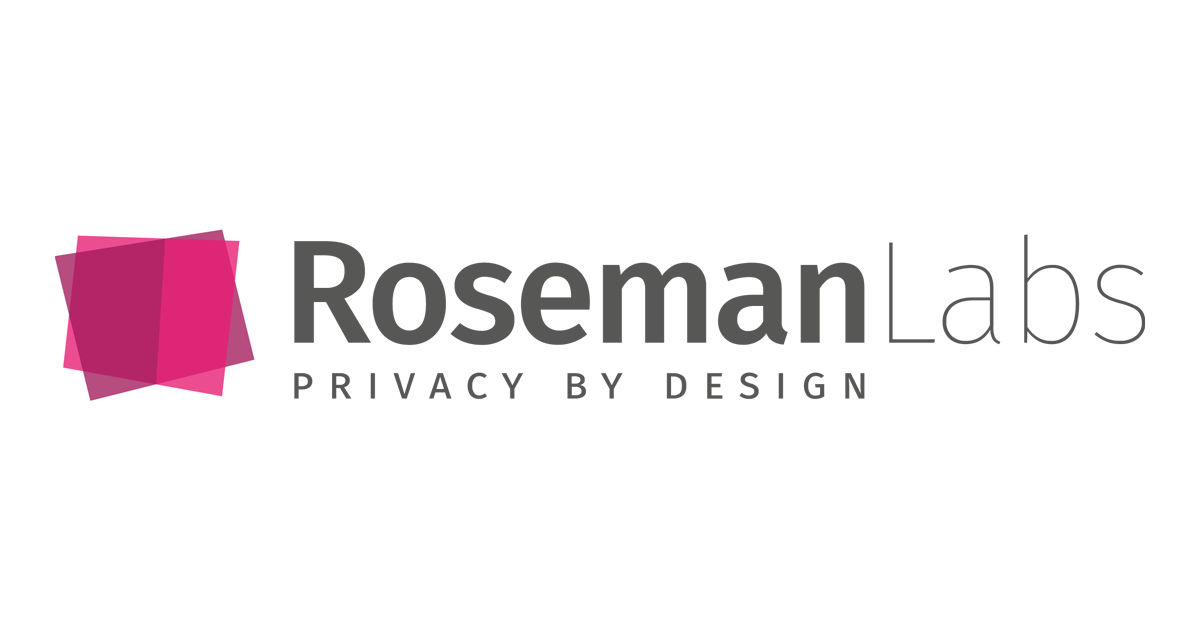
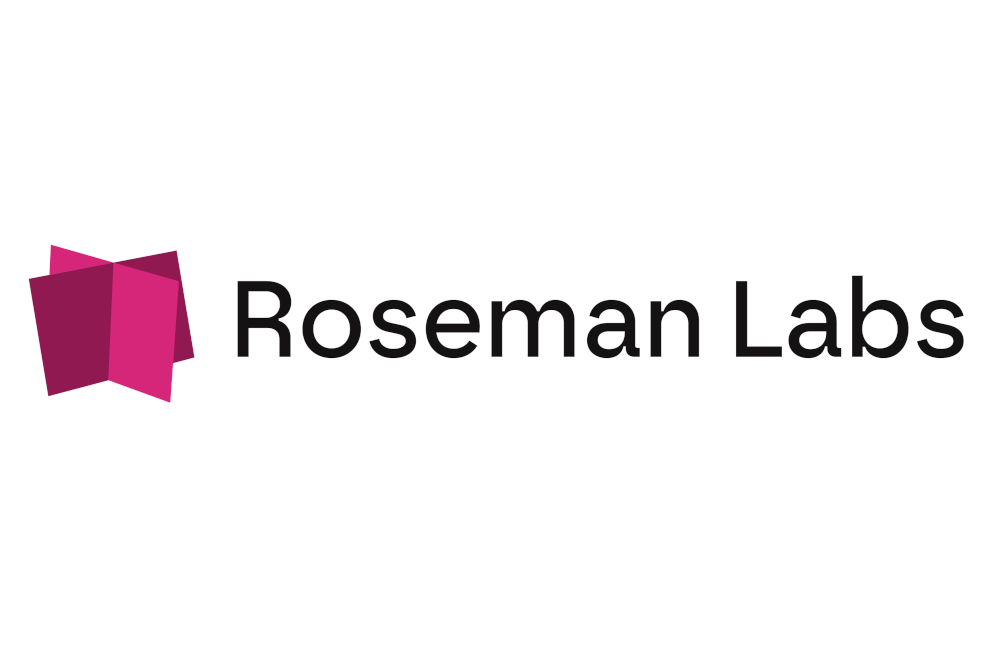
Added post about Municipality of Rotterdam (#15)
also added myself as author,
fixed typo in Meilof's name (my colleague)

renewed Roseman Labs logo

diff --git a/_posts/2025-02-17-Monitoring Toddlers with MPC.md b/_posts/2025-02-17-Monitoring Toddlers with MPC.md
@@ -1,0 +1,30 @@
+---
+title: Privacy-preserving monitoring of toddlers to early detect development delays
+date: 2025-02-17 15:09:00 +0100
+categories: [Private Analytics, Social Good]
+toc: true
+image:
+    path: /assets/img/roseman.png
+author: niek
+---
+
+The Municipality of Rotterdam in the Netherlands uses [Roseman Labs](https://www.rosemanlabs.com)' MPC platform to provide additional educational support in a timely manner to toddlers with developmental delays, so they can start their school career without falling behind.
+
+The municipality of Rotterdam has a statutory duty to ensure sufficient pre-school provision across the city for toddlers with (a risk of) a language and/or developmental delay. The Centre for Youth and Family (CJG) determines whether a toddler belongs to this target group based on established criteria. Childcare organisations in Rotterdam receive a subsidy from the municipality for the implementation of the pre-school programmes. Both the CJG and the childcare organizations provide data to the municipality for the purpose of monitoring the reach of these toddlers; this data is encrypted in each client's web browser, and then uploaded to the MPC servers. 
+
+The municipality monitors how many toddlers have participated in a pre-school program (reach) and which have not (non-reach). By linking and analyzing the data using secure multiparty computation, the municipality gains insight into whether there is sufficient supply in the various areas and districts of Rotterdam, and whether targeted interventions are needed, without ever seeing privacy-sensitive information about individual toddlers.
+
+"Instead of just conducting an analysis once a year, we now receive monthly reports on the state of affairs," says Ako Madomi, Product Owner of the pre-school program at the Municipality of Rotterdam.
+
+The municipality now has timely insight into the number of toddlers who have been diagnosed with a (risk of) a developmental delay, how many of them have already been placed in a childcare facility with a pre-school program and how many have not. It is also clear in which areas and neighbourhoods these children are located, so that the municipality can carry out targeted interventions in the places where they are most needed, such as deploying additional staff or setting up further learning programs. 
+
+The platform uses a three-party, honest-majority passively secure MPC protocol.
+
+![](https://rosemanlabs.com/hubfs/iStock-1369912866.jpg)
+
+### Presentation
+
+{% include embed/youtube.html id='lphvOKvGiug' %}
+
+### Links
+[Post at Roseman Labs website](https://rosemanlabs.com/en/customers/gemeente-rotterdam-empowers-disadvantaged-toddlers-for-educational-success)
